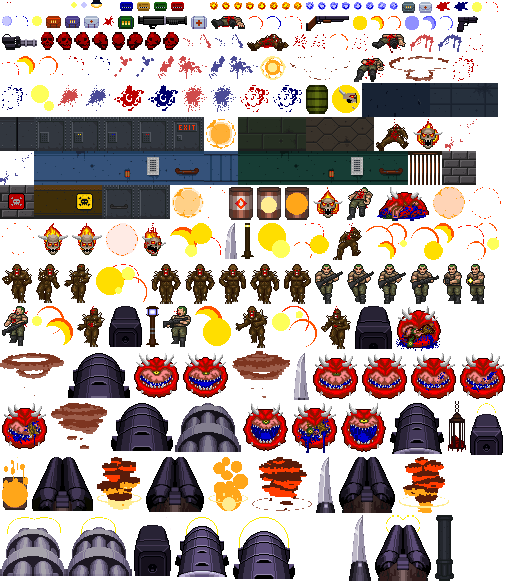
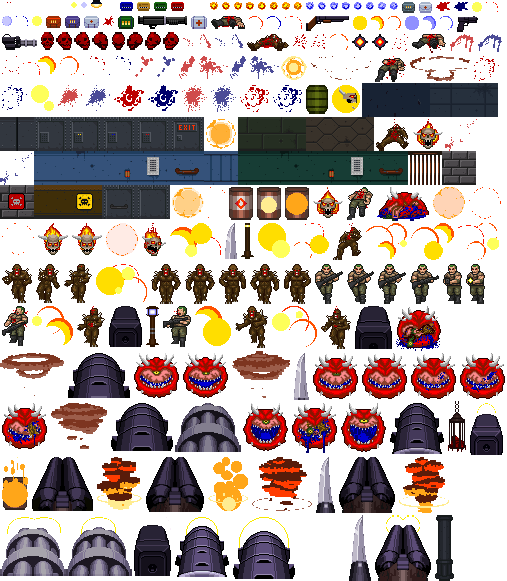
Added rotating projectile sprite

diff --git a/src/assets/scripts/components/Game/scenes/WorldScene/parsers/sprites.js b/src/assets/scripts/components/Game/scenes/WorldScene/parsers/sprites.js
@@ -23,6 +23,7 @@ import HUDKeySprite from '../sprites/HUDKeySprite';
 import HUDSprite from '../sprites/HUDSprite';
 import EffectSprite from '../sprites/EffectSprite';
 import ExplosiveEntitySprite from '../sprites/ExplosiveEntitySprite';
+import ProjectileSprite from '../sprites/ProjectileSprite';
 
 const createEnemySprite = ({ animations, textures, enemy }) => {
   const textureCollection = Object.keys(animations).reduce((animationMemo, state) => ({
@@ -48,10 +49,10 @@ const createWeaponSprite = ({ animations, textures, player }) => {
   return new WeaponSprite(textureCollection, player);
 };
 
-const createProjectileSprite = ({ animations, textures }) => {
+const createProjectileSprite = ({ animations, textures, rotate }) => {
   const projectileTextures = animations.map(animation => textures[animation]);
 
-  return new AnimatedEntitySprite(projectileTextures);
+  return new ProjectileSprite(projectileTextures, { rotate });
 };
 
 const createWallSpriteMask = (wallTexture, renderer) => {
@@ -413,6 +414,7 @@ const createEntitySprites = ({ animations, textures, world }) => {
       entitySprites[projectile.id] = createProjectileSprite({
         animations: animations[projectile.name],
         textures,
+        rotate: projectile.rotate,
       });
     }
   });

diff --git a/src/assets/scripts/components/Game/scenes/WorldScene/sprites/ProjectileSprite/index.js b/src/assets/scripts/components/Game/scenes/WorldScene/sprites/ProjectileSprite/index.js
@@ -1,0 +1,22 @@
+import AnimatedEntitySprite from '../AnimatedEntitySprite';
+
+/**
+ * Class representing an explosive sprite.
+ */
+class ProjectileSprite extends AnimatedEntitySprite {
+  constructor(textures, { rotate = 0, ...other } = {}) {
+    super(textures, other);
+
+    this.rotate = rotate;
+  }
+
+  update(delta) {
+    super.update(delta);
+
+    if (this.rotate) {
+      this.rotation += this.rotate * delta;
+    }
+  }
+}
+
+export default ProjectileSprite;

diff --git a/src/assets/scripts/components/Game/engine/components/Projectile/index.js b/src/assets/scripts/components/Game/engine/components/Projectile/index.js
@@ -39,6 +39,7 @@ class Projectile extends DynamicEntity {
     weight = 0,
     queue,
     explosion,
+    rotate,
     ...other
   }) {
     super({
@@ -53,6 +54,7 @@ class Projectile extends DynamicEntity {
     this.effects = effects;
     this.velocity = speed * CELL_SIZE;
     this.queue = queue;
+    this.rotate = rotate;
 
     if (explosion) {
       this.explosion = new Explosion({ source: this, ...explosion });

diff --git a/src/assets/scripts/components/Game/scenes/WorldScene/sprites/EnemySprite/index.js b/src/assets/scripts/components/Game/scenes/WorldScene/sprites/EnemySprite/index.js
@@ -36,8 +36,10 @@ class EnemySprite extends AnimatedEntitySprite {
 
     this.textureCollection = textureCollection;
 
-    if (enemy.effects.explode) {
-      this.onComplete = () => enemy.isDead() && enemy.remove();
+    this.onComplete = () => {
+      if (enemy.explosion && enemy.isDead()) {
+        enemy.remove();
+      }
     }
   }
 

diff --git a/src/assets/scripts/components/Game/core/graphics/components/Container/index.js b/src/assets/scripts/components/Game/core/graphics/components/Container/index.js
@@ -38,7 +38,7 @@ class Container extends PixiContainer {
   removeChild(child) {
     super.removeChild(child);
 
-    if (child.play && (this.loop || !child.playing)) {
+    if (child.play && (child.loop || !child.playing)) {
       this.playableChildren = this.playableChildren.filter(p => p !== child);
     }
 
